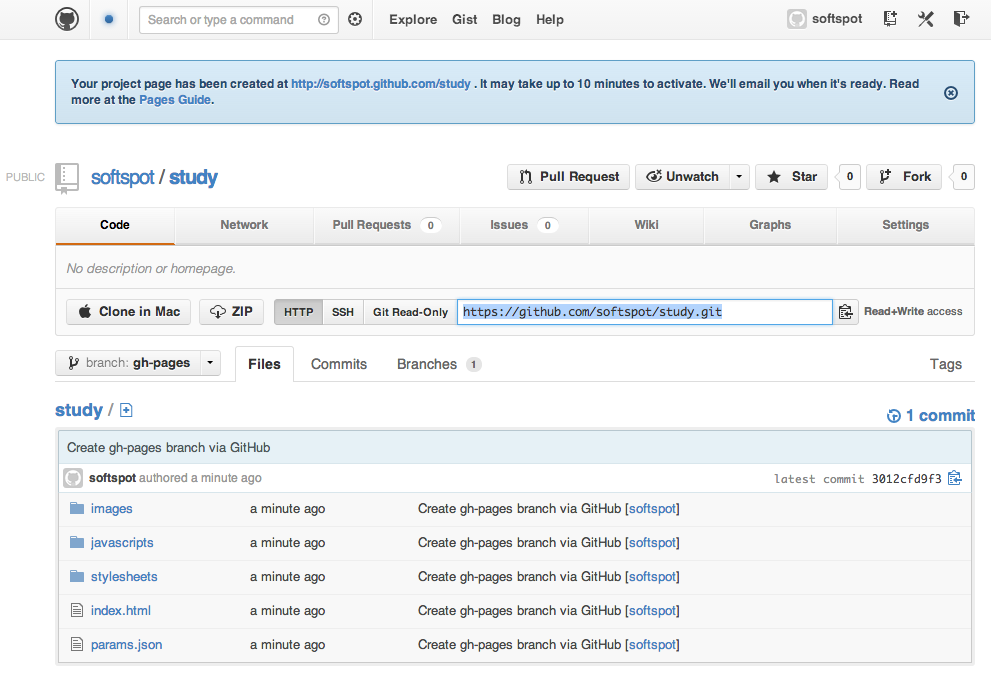
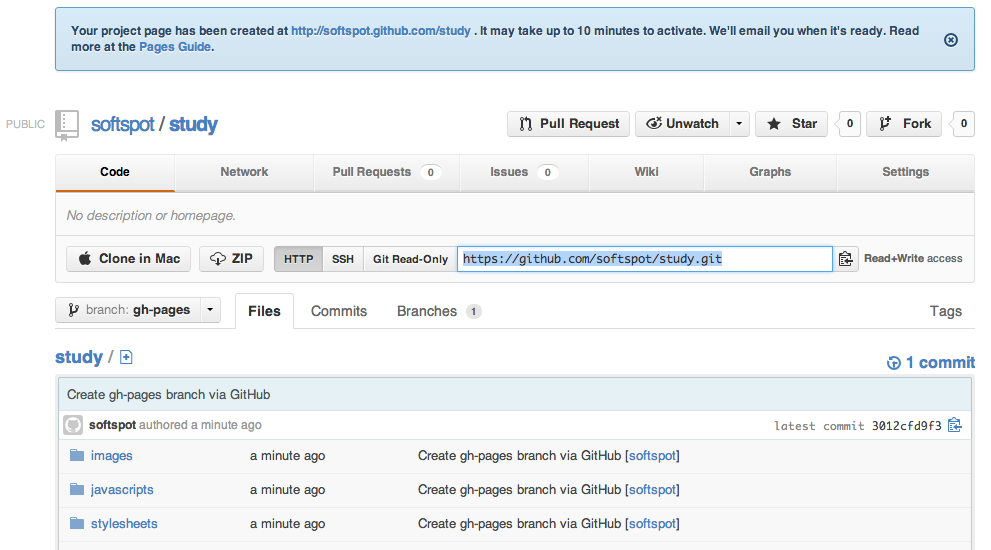
resize images

diff --git a/doc/md-presentation.md b/doc/md-presentation.md
@@ -43,9 +43,11 @@
 ## Setup
 ![](http://softspot.github.com/study/doc/md-presentation/12.png)
 
-## Setup
+## [http://softspot.github.com/study/](http://softspot.github.com/study/)
 ![](http://softspot.github.com/study/doc/md-presentation/13.png)
-* [http://softspot.github.com/study/](http://softspot.github.com/study/)
+
+## PDF
+[http://softspot.github.io/study/?doc=md-presentation](http://softspot.github.io/study/?doc=md-presentation&print-pdf "&print-pdf")*&print-pdf*
 
 ***
 
